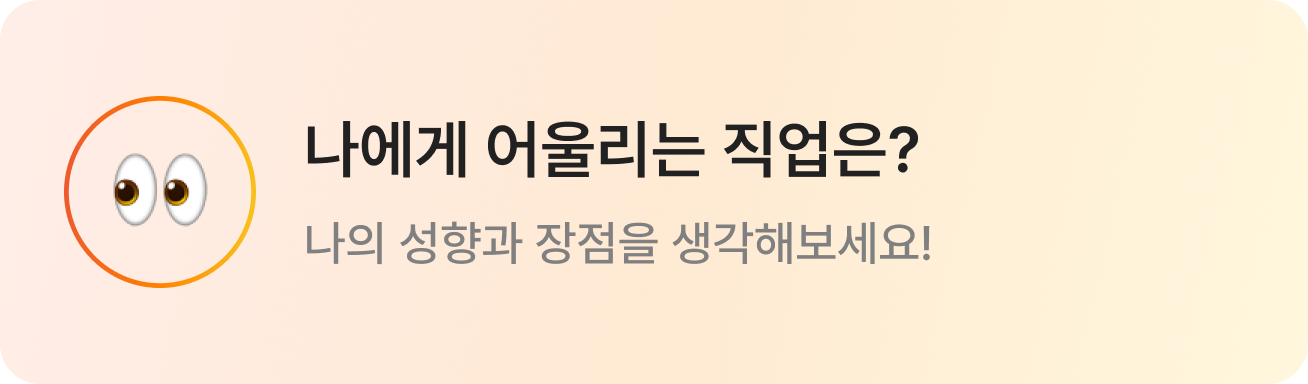
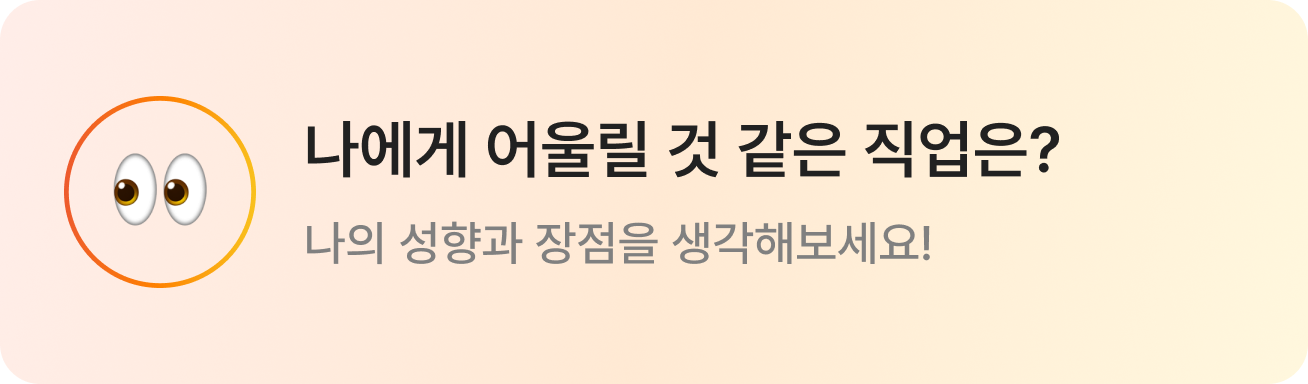
commit

Changed region(s): [[0.4587, 0.3125, 0.8257, 0.4688], [0.0917, 0.4688, 0.1529, 0.5312]]

diff --git a/src/components/Web/SurveyPage/Question2Create.js b/src/components/Web/SurveyPage/Question2Create.js
@@ -9,7 +9,7 @@ import tipimage from '../../../img/Tip.png'
 import addVote from '../../../img/addVote.png'
 import AddAnswerQuest from '../AnswerPage/AddAnswerQuest';
 import Modal from 'react-modal';
-import emoji3 from '../../../img/emoji3.png';
+import emoji2 from '../../../img/emoji2.png';
 import tip from '../../../img/TipHeart.png'
 import 'firebase/compat/auth';
 import { v4 as uuidv4 } from 'uuid';
@@ -191,7 +191,7 @@ const modalStyles = {
 
 
 
-const BannerCreate = () => {
+const Question2Create = () => {
     const navigate = useNavigate();
     // const [kakaoContext] = useContext(KakaoIdContext);
     // console.log("zip userId : ", kakaoContext);//userId
@@ -232,10 +232,10 @@ const BannerCreate = () => {
         await setDoc(doc(dbService, 'zip_Question', questionId), {
           kakaoId,
           questionId,
-          question: "나를 표현하는 형용사는?",
-          comment: "나에게 어울리는 단어를 생각해보세요!",
+          question: "나에게 어울릴 것 같은 직업은?",
+          comment: "나의 성향과 장점을 생각해보세요!",
           voteEnd,
-          emoji: "emoji3", // Include the selected emoji value in the data
+          emoji: "emoji2", // Include the selected emoji value in the data
           timestamp,
           VoteNum:1
         });
@@ -260,9 +260,9 @@ const BannerCreate = () => {
               <HeaderDiv>나에 대해 생각해보세요!</HeaderDiv>
               <HeaderP>답변 키워드와 이유를 적어 투표 후보에 추가해보세요.</HeaderP>
               <Container>
-                <Question>나를 표현하는 형용사는?</Question>
-                <Comment>나에게 어울리는 단어를 생각해보세요!</Comment>
-                <IMG src={emoji3} alt="Emoji"></IMG>
+                <Question>나에게 어울릴 것 같은 직업은?</Question>
+                <Comment>나의 성향과 장점을 생각해보세요!</Comment>
+                <IMG src={emoji2} alt="Emoji"></IMG>
                 </Container>
                 <Hr></Hr>
                 <TipCon>
@@ -281,7 +281,7 @@ const BannerCreate = () => {
       );
     };
 
-export default BannerCreate;
+export default Question2Create;
 
 
 

diff --git a/src/components/Web/SurveyPage/SurveyFirst.js b/src/components/Web/SurveyPage/SurveyFirst.js
@@ -170,22 +170,22 @@ function SurveyFirst() {
 
 
       if (selectedEmoji === 'emoji1') {
-        question = '나에게 어울리는 컬러는?';
+        question = '나의 이미지에 어울리는 컬러는?';
         comment = '나의 성격과 떠오르는 이미지를 연관지어보세요!';
         emoji = emoji1;
 
       } else if (selectedEmoji === 'emoji2') {
-        question = '나에게 어울리는 직업은?';
+        question = '나에게 어울릴 것 같은 직업은?';
         comment = '나의 성향과 장점을 생각해보세요!';
         emoji = emoji2;
         setSelectedEmoji("emoji2");
       } else if (selectedEmoji === 'emoji3') {
-        question = '나에게 어울리는 형용사는?';
-        comment = '나를 표현하는 단어를 생각해보세요!';
+        question = '나를 표현하는 형용사는?';
+        comment = '나에게 어울리는 단어를 생각해보세요!';
         emoji = emoji3;
         setSelectedEmoji("emoji3");
       } else if (selectedEmoji=== 'emoji4') {
-        question = '나에게 어울리는 브랜드는?';
+        question = '내 이미지가 떠오르는 브랜드는?';
         comment = '나를 생각하면 떠오르는 키워드와 연관지어보세요!';
         emoji = emoji4;
         setSelectedEmoji("emoji4");

diff --git a/src/components/Web/SurveyPage/Question1Create.js b/src/components/Web/SurveyPage/Question1Create.js
@@ -232,7 +232,7 @@ const Question1Create = () => {
         await setDoc(doc(dbService, 'zip_Question', questionId), {
           kakaoId,
           questionId,
-          question: "나에게 어울리는 컬러는?",
+          question: "나의 이미지에 어울리는 컬러는?",
           comment: "나의 성격과 떠오르는 이미지를 연관지어보세요!",
           voteEnd,
           emoji: "emoji1", // Include the selected emoji value in the data
@@ -260,8 +260,8 @@ const Question1Create = () => {
               <HeaderDiv>나에 대해 생각해보세요!</HeaderDiv>
               <HeaderP>답변 키워드와 이유를 적어 투표 후보에 추가해보세요.</HeaderP>
               <Container>
-                <Question>나에게 어울리는 컬러는?</Question>
-                <Comment>나를 표현하는 단어를 생각해보세요!</Comment>
+                <Question>나의 이미지에 어울리는 컬러는?</Question>
+                <Comment>나의 성격과 떠오르는 이미지를 연관지어보세요!</Comment>
                 <IMG src={emoji1} alt="Emoji"></IMG>
                 </Container>
                 <Hr></Hr>

diff --git a/src/App.js b/src/App.js
@@ -17,6 +17,7 @@ import VotingPage from './components/Web/VotePage/VotingPage';
 import AnswerLoading from './components/Web/AnswerPage/AnswerLoading';
 import BannerCreate from './components/Web/SurveyPage/BannerCreate';
 import Question1Create from './components/Web/SurveyPage/Question1Create';
+import Question2Create from './components/Web/SurveyPage/Question2Create';
 
 function App() {
   const kakaoId =  localStorage.getItem("kakaoId")
@@ -39,6 +40,7 @@ function App() {
     <Route path='/SurveyShare/:questionId' element={<SurveyShare/>}/>
     <Route path='/BannerCreate/:kakaoId' element={<BannerCreate/>}/>
     <Route path='/Question1Create/:kakaoId' element={<Question1Create/>}/>
+    <Route path='/Question2Create/:kakaoId' element={<Question2Create/>}/>
     <Route path='/Answer' element={<Answer/>}/>
     <Route path='/Answer/:questionId' element={<Answer/>}/>
     <Route path='/AnswerEnd' element={<AnswerEnd/>}/>

diff --git a/src/components/Web/HomePage/HomePageFirst.js b/src/components/Web/HomePage/HomePageFirst.js
@@ -527,7 +527,7 @@ const HomePageFirst = () => {
         <Newq>지인들에게 나에 대해 물어보세요!</Newq>
         <QuestionContainer>
           <ButtonQ src={Home1} onClick={() => navigate(`/Question1Create/${kakaoId}`)}/>
-          <ButtonQ1 src={Home2} onClick={() => navigate(`/BannerCreate/${kakaoId}`)}/>
+          <ButtonQ1 src={Home2} onClick={() => navigate(`/Question2Create/${kakaoId}`)}/>
         </QuestionContainer>
         <ButtonNew onClick={handleButtonClick}> + 나만의 질문 만들기</ButtonNew>
         <DIVB>
